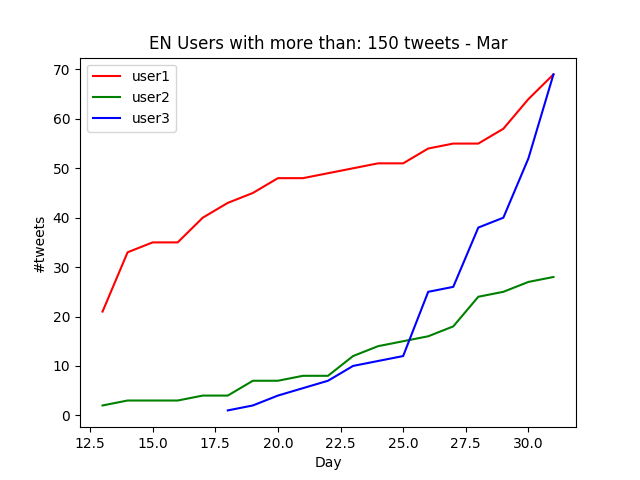
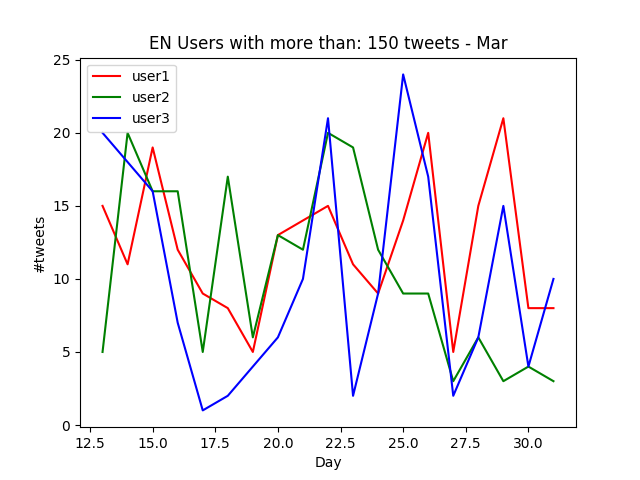
bug in users_graphics.py fixed, ordenation of lists

diff --git a/Proj2/random_user_profiling.py b/Proj2/random_user_profiling.py
@@ -10,55 +10,57 @@ def graphics_user_profiling(file):
 	f = open(file, "r+")
 	data = f.readline()
 	data = f.read()
-	days = []
-	for i in range(32):
-		days.append(i)
+	if len(data) > 0:
+		days = []
+		for i in range(32):
+			days.append(i)
 
-	data = data.split("\n")[:-1]
+		data = data.split("\n")[:-1]
+		user = ""
+		users = []
+		while len(users)< 3:
+			i = random.randint(0, len(data)-1)
+			d = data[i]
+			u = (d.strip(" ").split(" ")[1]).split(",")[0]
+			if user != u and u not in users:
+				users.append(u)
+				user = u
+				if len(users) == 3:
+					break
+			
+		ux = []
+		uy = []
+		for i in range(3):
+			ux.append([])
+			uy.append([])
+			z = []
+			for d in data:
+				val = d.strip(" ").split(" ")
+				u = (val[1]).split(",")
+				if u[0] == users[i]:
+					z.append((int(u[1]), int(val[0])))
+			z = sorted(z, key=lambda i:i[0])
+			for j in range(len(z)):
+				ux[i].append(z[j][0])
+				uy[i].append(z[j][1])
 
-	user = ""
-	users = []
-	while len(users)< 3:
-		i = random.randint(0, len(data)-1)
-		d = data[i]
-		u = (d.strip(" ").split(" ")[1]).split(",")[0]
-		if user != u and u not in users:
-			users.append(u)
-			user = u
-			if len(users) == 3:
-				break
-		
-	ux = []
-	uy = []
-	for i in range(3):
-		x = []
-		y = []
-		for d in data:
-			val = d.strip(" ").split(" ")
-			u = (val[1]).split(",")
-			if u[0] == users[i]:
-				x.append(int(u[1]))
-				y.append(int(val[0])) 
-		ux.append(sorted(x, key=lambda i: i))
-		uy.append(sorted(y, key=lambda i: i))
+		fig = plt.figure()
+		ax1 = fig.add_subplot(111)
 
-	fig = plt.figure()
-	ax1 = fig.add_subplot(111)
+		ax1.set_title(string.upper(file[0:2])+" Users with more than: "+str(int(file[5:8]))+" tweets - "+file[-13:-10])
+		ax1.set_xlabel("Day")
+		ax1.set_ylabel("#tweets")
 
-	ax1.set_title(string.upper(file[0:2])+" Users with more than: "+str(int(file[5:8]))+" tweets - "+file[-13:-10])
-	ax1.set_xlabel("Day")
-	ax1.set_ylabel("#tweets")
+		ax1.plot(ux[0], uy[0], c="r")
+		ax1.plot(ux[1], uy[1], c="g")
+		ax1.plot(ux[2], uy[2], c="b")
 
-	ax1.plot(ux[0], uy[0], c="r")
-	ax1.plot(ux[1], uy[1], c="g")
-	ax1.plot(ux[2], uy[2], c="b")
+		plt.legend(["user1", "user2", "user3"])
+		# plt.show()
+		# plt.draw()
 
-	plt.legend(["user1", "user2", "user3"])
-	# plt.show()
-	# plt.draw()
-
-	plt.savefig("graphs_tweetsperuser/"+file[15:17]+"_"+file[-13:-10]+".png")
-	plt.close()
+		plt.savefig("graphs_tweetsperuser/"+file[15:17]+"_"+file[-13:-10]+".png")
+		plt.close()
 
 if __name__ == '__main__':
 	if len(sys.argv) != 2:
